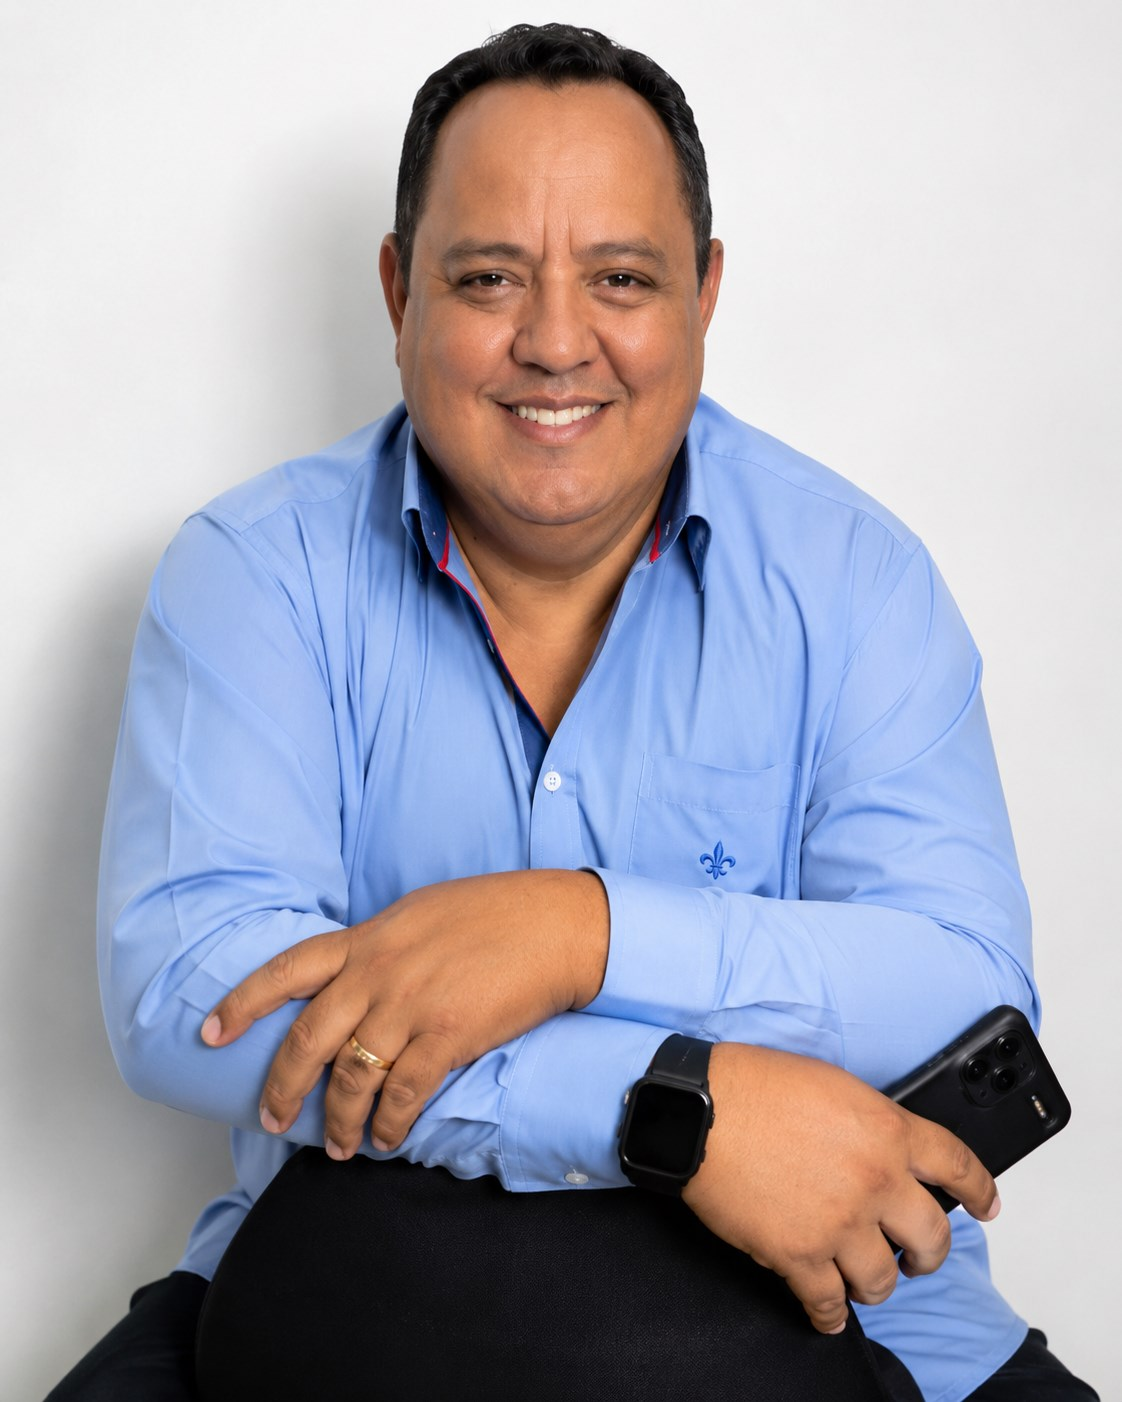
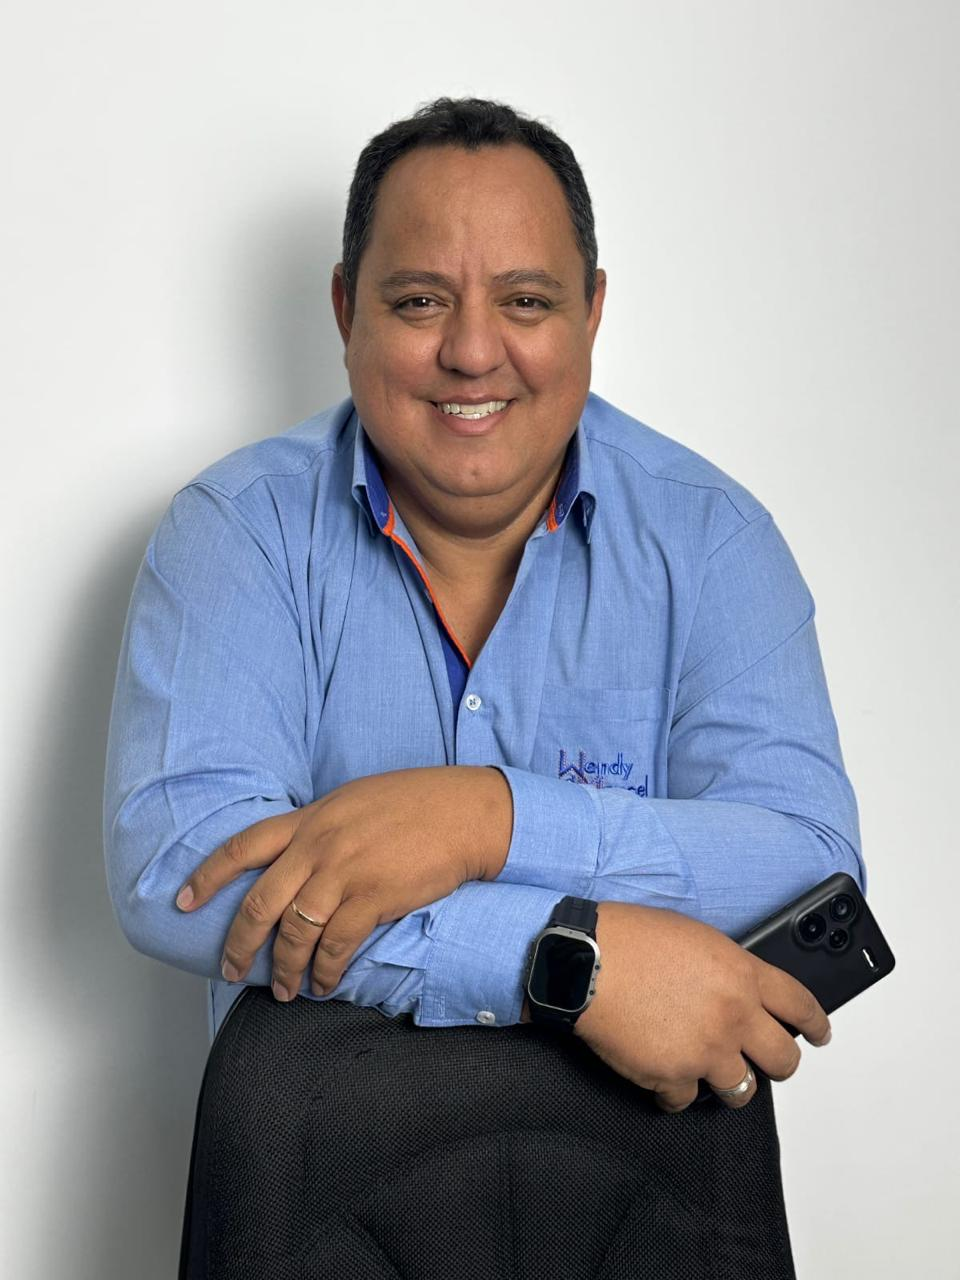
Update Wendy's photo in the about section

diff --git a/index.html b/index.html
@@ -156,7 +156,7 @@
   <section id="sobre" class="about">
     <div class="container about-grid">
       <div class="avatar-card">
-        <img src="corretor.jpg" alt="Wendy Marcel, corretor de imóveis em Birigui/SP" width="1122" height="1402">
+        <img src="corretor.jpg" alt="Wendy Marcel, corretor de imóveis em Birigui/SP" width="960" height="1280">
         <div class="avatar-ribbon">
           <b>Wendy Marcel</b>
           <span><svg class="creci-icon" viewBox="0 0 24 24" fill="none" stroke="currentColor" stroke-width="2" stroke-linecap="round" stroke-linejoin="round"><path d="M12 2 L20 6 V12 C20 17 16.5 20.5 12 22 C7.5 20.5 4 17 4 12 V6 Z"/><polyline points="9 12 11 14 15 9.5"/></svg>CRECI 239577-F</span>